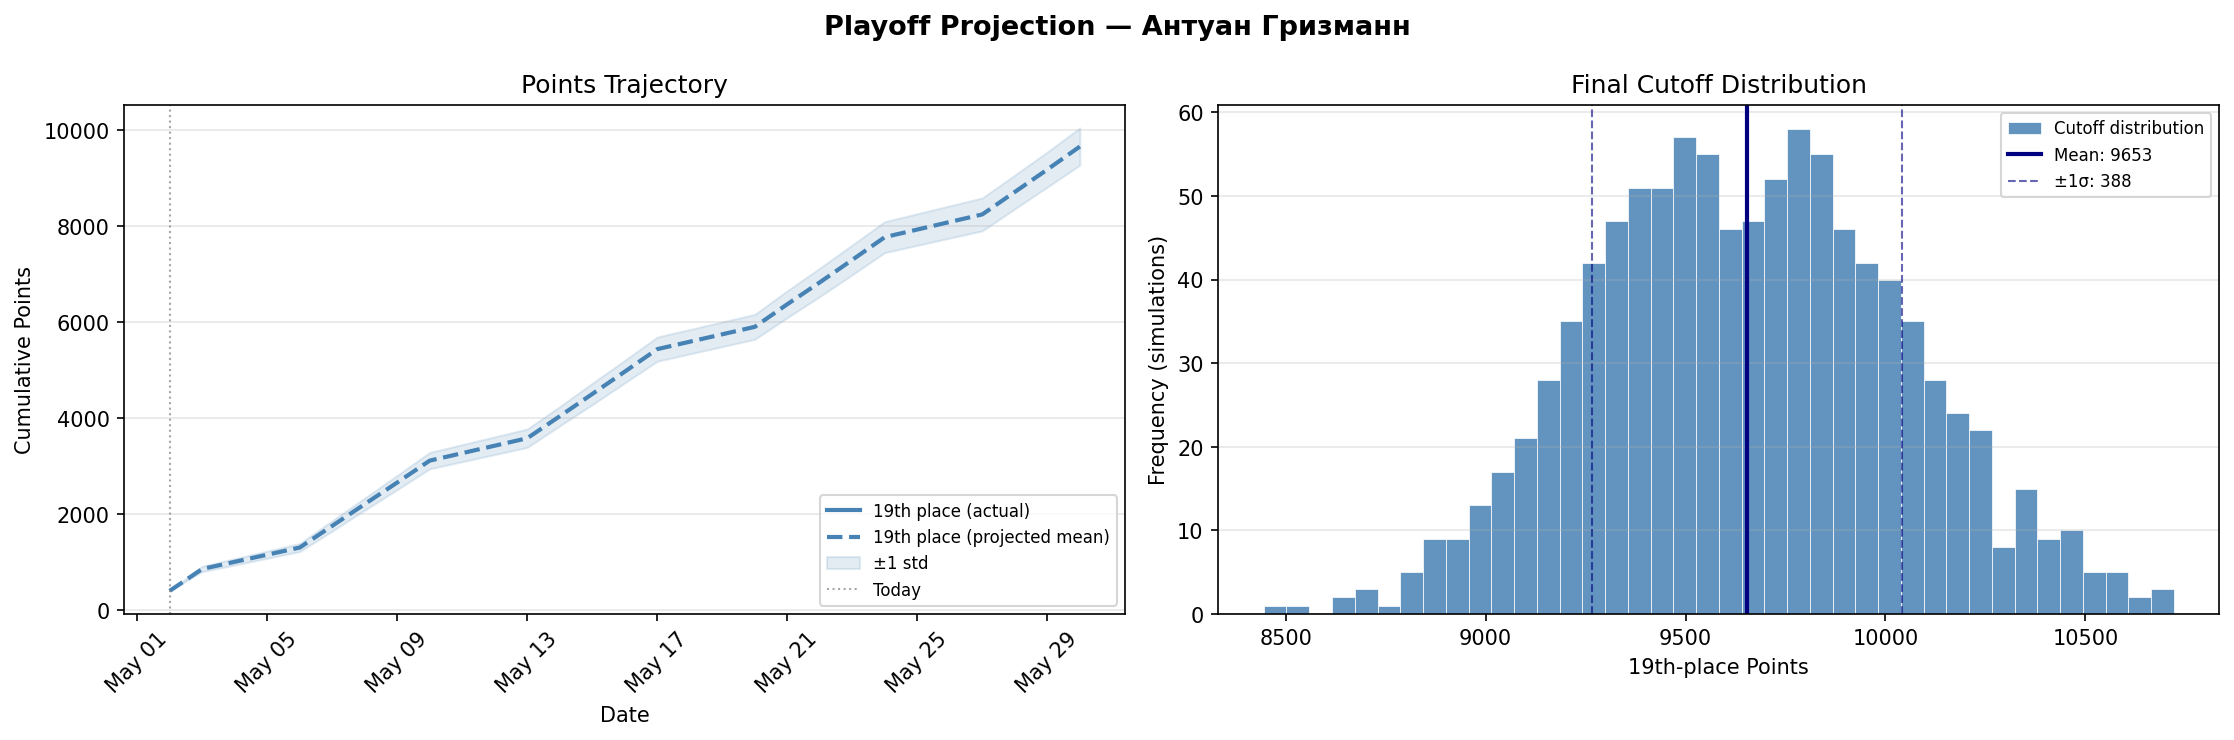
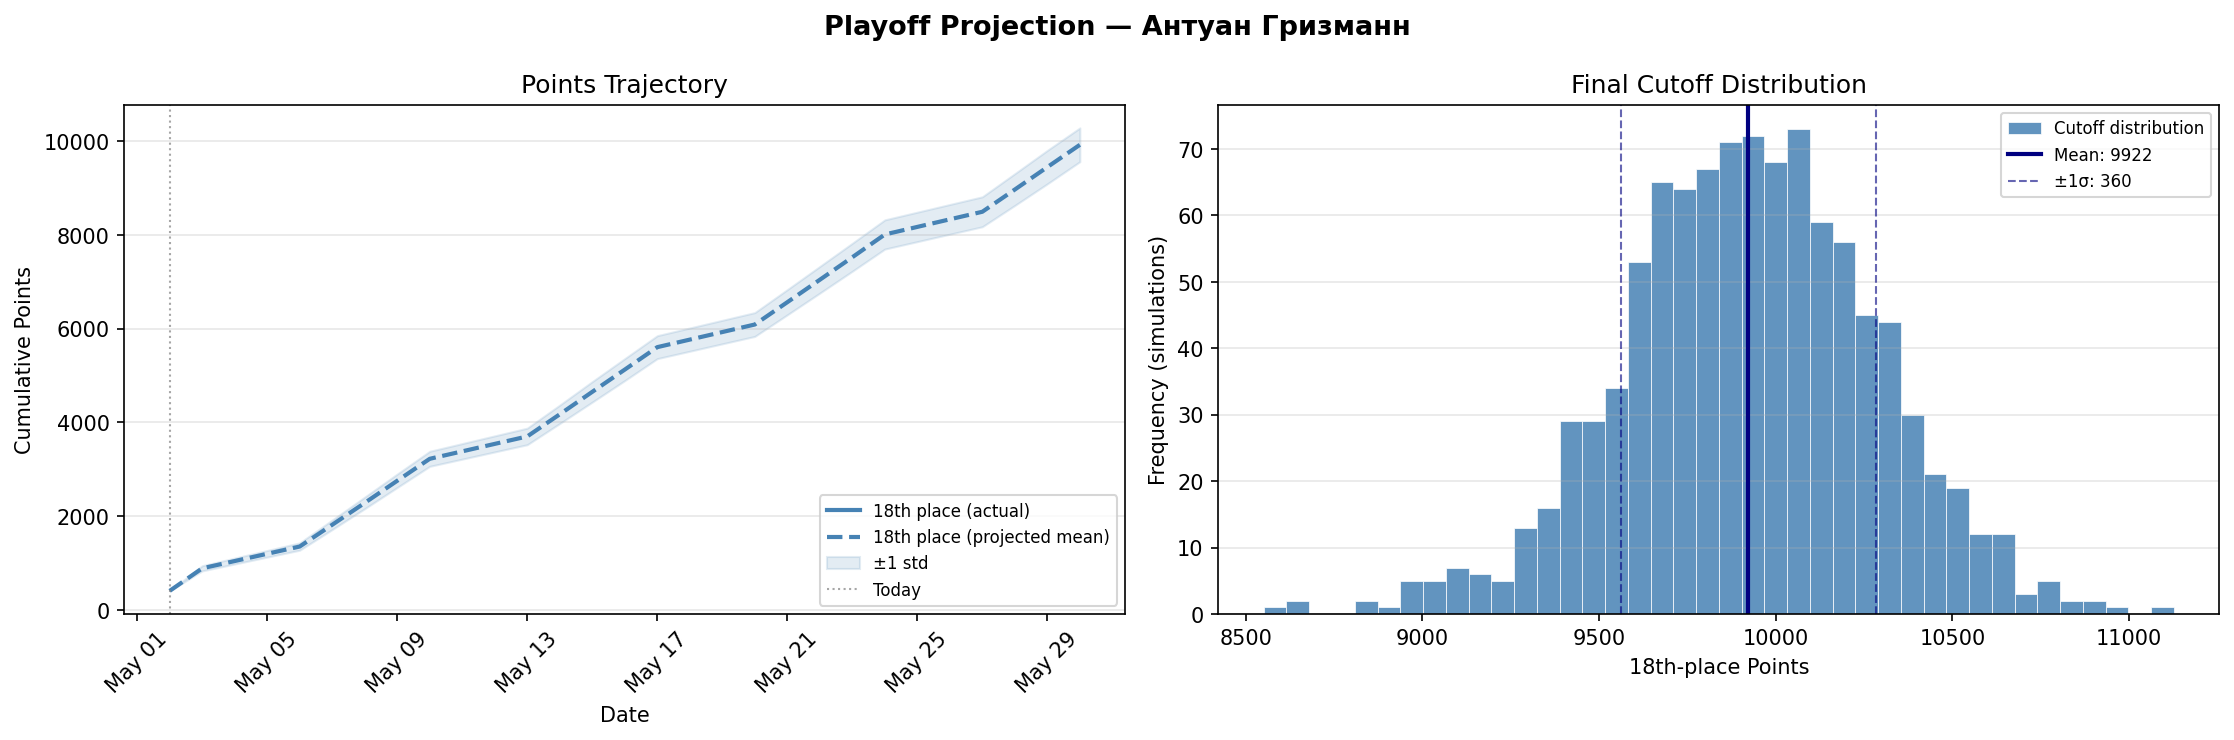
playoff cutoff back to 18

diff --git a/index.html b/index.html
@@ -405,7 +405,7 @@
   </div>
   <div class="stat-cell">
     <div class="stat-label">Playoff Spots</div>
-    <div class="stat-value">19</div>
+    <div class="stat-value">18</div>
   </div>
   <div class="stat-cell">
     <div class="stat-label">Last Game</div>

diff --git a/main.py b/main.py
@@ -27,7 +27,7 @@ N_SIM            = 1000
 NOISE_STD        = 200
 EVAL_POOL        = 100
 TOP_N_RANK_PLOT  = 18
-PLAYOFF_CUTOFF   = 19
+PLAYOFF_CUTOFF   = 18
 # ─────────────────────────────────────────────────────────────────────────────
 
 
